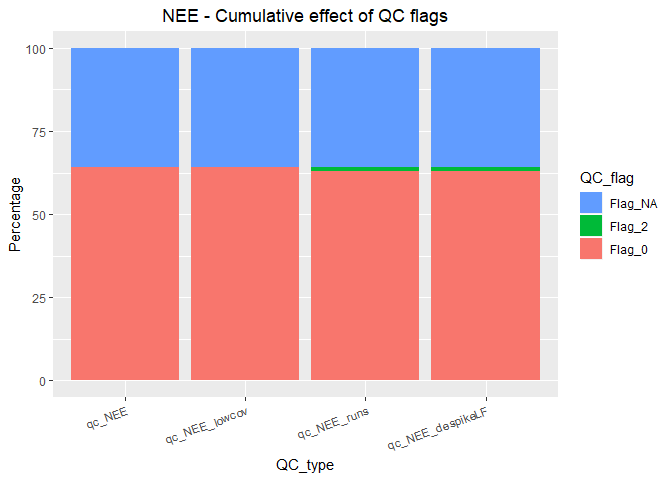
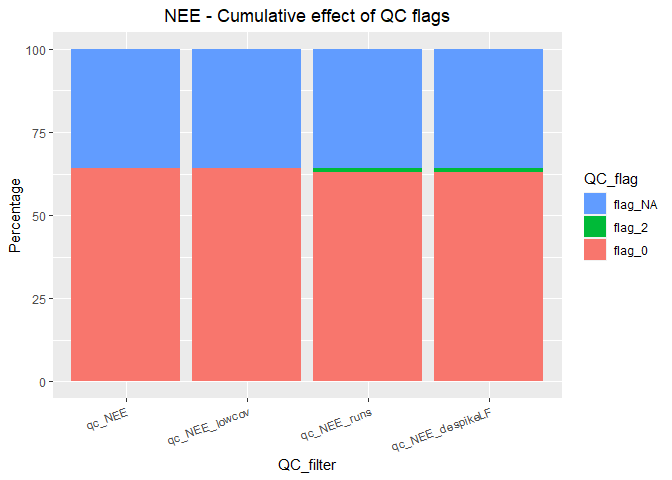
Reknit readme

diff --git a/README.md b/README.md
@@ -1,33 +1,41 @@
 <!-- README.md is generated from README.Rmd. Please edit that file -->
-openeddy
-========
 
-This package provides utilities for eddy covariance data handling, quality checking (similar to Mauder et al., 2013), processing, summarising and plotting. It aims to standardise the automated quality checking and make data processing reproducible.
+# openeddy
 
-Installation
-------------
+## Overview
+
+The `openeddy` package is a software infrastructure for eddy covariance
+data post-processing. It provides tools for handling data with attached
+metadata, setting up quality control scheme and summarizing and plotting
+the results. It is aligned with
+[REddyProc](https://github.com/bgctw/REddyProc) package that provides
+methods for uStar-filtering, gap-filling, and flux-partitioning. Thus
+the combined use of `openeddy` and `REddyProc` allows to run the whole
+eddy covariance post-processing chain. Learn more at
+<https://github.com/lsigut/EC_workflow>.
+
+## Installation
 
 1.  Install devtools package if not available yet.
 
-    ``` r
-    install.packages("devtools")
-    ```
+``` r
+install.packages("devtools")
+```
 
-2.  Install openeddy
+1.  Install openeddy
 
-    ``` r
-    devtools::install_github("lsigut/openeddy")
-    ```
+``` r
+devtools::install_github("lsigut/openeddy")
+```
 
-Extended Example
-----------------
+## Extended Example
 
-An extended example describing the intended eddy covariance data processing workflow is available at:
+An extended example of applied `openeddy` software infrustructure is
+available at:
 
 <https://github.com/lsigut/EC_workflow>
 
-Short Example
--------------
+## Short Example
 
 Demonstration of selected generally applicable `openeddy` functions.
 
@@ -42,7 +50,9 @@ library(REddyProc)
 library(ggplot2)
 ```
 
-Example data from `REddyProc` package do not include statistics extracted from raw data or quality control (QC) flags. Notice that units are included.
+Example data from `REddyProc` package do not include statistics
+extracted from raw data or quality control (QC) flags. Notice that units
+are included.
 
 ``` r
 data(Example_DETha98)
@@ -65,7 +75,11 @@ DETha98 <- fConvertTimeToPosix(Example_DETha98, 'YDH',
 #> Converted time format 'YDH' to POSIX with column name 'DateTime'.
 ```
 
-Certain variable names are expected by `openeddy`, thus DETha98 variable names need to be renamed. Net ecosystem exchange (NEE) is already filtered based on QC information (qc\_NEE) that is not included. Though flag 2 values can be recreated, respective NEE values are missing and flag 1 cannot be resolved.
+Certain variable names are expected by `openeddy`, thus DETha98 variable
+names need to be renamed. Net ecosystem exchange (NEE) is already
+filtered based on QC information (qc_NEE) that is not included. Though
+flag 2 values can be recreated, respective NEE values are missing and
+flag 1 cannot be resolved.
 
 ``` r
 rename <- names(DETha98) %in% c("DateTime", "Rg")
@@ -75,9 +89,17 @@ DETha98$qc_NEE <- ifelse(is.na(DETha98$NEE), NA, 0)
 
 Application of three general filters is presented.
 
-1.  Low covariance between vertical wind component and CO<sub>2</sub> concentration ((CO<sub>2</sub>)) can be caused by frozen ultrasonic anemometer or problems with (CO<sub>2</sub>) measurements. Such cases are flagged and saved to qc\_NEE\_lowcov.
-2.  Runs with repeating values are a sign of malfunctioning equipment (qc\_NEE\_runs).
-3.  Spikes in low frequency data cause problems during gap-filling and should be excluded. Since DETha98 was already quality checked, the amount of detected spikes is limited. In order to correctly evaluate spikes, preliminary QC (qc\_NEE\_prelim) that combines available QC tests or filters should be produced and used in `despikeLF`.
+1.  Low covariance between vertical wind component and CO<sub>2</sub>
+    concentration ((CO<sub>2</sub>)) can be caused by frozen ultrasonic
+    anemometer or problems with (CO<sub>2</sub>) measurements. Such
+    cases are flagged and saved to qc_NEE_lowcov.
+2.  Runs with repeating values are a sign of malfunctioning equipment
+    (qc_NEE_runs).
+3.  Spikes in low frequency data cause problems during gap-filling and
+    should be excluded. Since DETha98 was already quality checked, the
+    amount of detected spikes is limited. In order to correctly evaluate
+    spikes, preliminary QC (qc_NEE_prelim) that combines available QC
+    tests or filters should be produced and used in `despikeLF`.
 
 ``` r
 DETha98$qc_NEE_lowcov <- 
@@ -108,26 +130,34 @@ table(DETha98$qc_NEE_despikeLF)
 #> 11024    26
 ```
 
-The QC results can be summarized in tabular or graphical form using `summary_QC`. It is possible to summarize each filter independently or summarize the cummulative effect of applied filters. Note that the fraction of flagged records in this example is negligible as DETha98 dataset was already quality checked.
+The QC results can be summarized in tabular or graphical form using
+`summary_QC`. It is possible to summarize each filter independently or
+summarize the cummulative effect of applied filters. Note that the
+fraction of flagged records in this example is negligible as DETha98
+dataset was already quality checked.
 
 ``` r
 summary_QC(DETha98, 
            c("qc_NEE", "qc_NEE_lowcov", "qc_NEE_runs", "qc_NEE_despikeLF"),
            na.as = c(NA, NA, NA, 0))
 #>                   QC_flag
-#> QC_type               0    2 <NA>
-#>   qc_NEE           64.3  0.0 35.7
-#>   qc_NEE_lowcov    64.2  0.1 35.7
-#>   qc_NEE_runs      63.2  1.1 35.7
-#>   qc_NEE_despikeLF 99.9  0.1  0.0
+#> QC_filter          flag_0 flag_2 flag_NA
+#>   qc_NEE             64.3    0.0    35.7
+#>   qc_NEE_lowcov      64.2    0.1    35.7
+#>   qc_NEE_runs        63.2    1.1    35.7
+#>   qc_NEE_despikeLF   99.9    0.1     0.0
 summary_QC(DETha98, 
            c("qc_NEE", "qc_NEE_lowcov", "qc_NEE_runs", "qc_NEE_despikeLF"),
            na.as = c(NA, NA, NA, 0), cumul = TRUE, plot = TRUE, flux = "NEE")
+#> no columns with additive effect detected
 ```
 
 ![](README-unnamed-chunk-6-1.png)
 
-Although individual QC columns should be stored as they are useful to distinguish the reason why certain records were excluded, only the combined QC column (qc\_NEE\_composite) is usually used in further data processing and analysis.
+Although individual QC columns should be stored as they are useful to
+distinguish the reason why certain records were excluded, only the
+combined QC column (qc_NEE_composite) is usually used in further data
+processing and analysis.
 
 ``` r
 DETha98$qc_NEE_composite <- 
@@ -136,19 +166,20 @@ DETha98$qc_NEE_composite <-
            "qc_NEE_composite", additive = FALSE, na.as = c(NA, NA, NA, 0))
 ```
 
-Function `plot_eddy` is useful for visualization of the whole dataset including flux values, its respective QC flags and the most important micrometeorological parameters in monthly and weekly time resolution. Only a two week subset is presented here to limit the extent of output.
+Function `plot_eddy` is useful for visualization of the whole dataset
+including flux values, its respective QC flags and the most important
+micrometeorological parameters in monthly and weekly time resolution.
+Only a two week subset is presented here to limit the extent of output.
 
 ``` r
 DETha98[, c("P", "PAR", "Rn")] <- NA
 (varnames <- varnames(DETha98))
-#>  [1] "DateTime"         "Year"             "DoY"             
-#>  [4] "Hour"             "NEE"              "LE"              
-#>  [7] "H"                "Rg"               "Tair"            
-#> [10] "Tsoil"            "rH"               "VPD"             
-#> [13] "Ustar"            "-"                "qc_NEE_lowcov"   
-#> [16] "qc_NEE_runs"      "qc_NEE_prelim"    "qc_NEE_despikeLF"
-#> [19] "qc_NEE_composite" "-"                "-"               
-#> [22] "-"
+#>  [1] "DateTime"         "Year"             "DoY"              "Hour"            
+#>  [5] "NEE"              "LE"               "H"                "Rg"              
+#>  [9] "Tair"             "Tsoil"            "rH"               "VPD"             
+#> [13] "Ustar"            "-"                "qc_NEE_lowcov"    "qc_NEE_runs"     
+#> [17] "qc_NEE_prelim"    "qc_NEE_despikeLF" "qc_NEE_composite" "-"               
+#> [21] "-"                "-"
 (units <- openeddy::units(DETha98))
 #>  [1] "POSIXDate Time" "-"              "-"              "-"             
 #>  [5] "umolm-2s-1"     "Wm-2"           "Wm-2"           "Wm-2"          
@@ -165,7 +196,10 @@ plot_eddy(DETha98_sub, "NEE", "qc_NEE", "qc_NEE_composite", skip = "monthly",
 
 ![](README-unnamed-chunk-8-1.png)
 
-In addition to actual despiking, `despikeLF` can be used also for visualization of the internally computed double-differenced time series in order to inspect selected 13 days blocks. See section Plotting in `despikeLF` help file for further description.
+In addition to actual despiking, `despikeLF` can be used also for
+visualization of the internally computed double-differenced time series
+in order to inspect selected 13 days blocks. See section Plotting in
+`despikeLF` help file for further description.
 
 ``` r
 despikeLF_plots <- 
@@ -180,9 +214,13 @@ despikeLF_plots$`iter 1`$all$`1998-01-27 - 1998-02-08`
 
 ![](README-unnamed-chunk-9-1.png)
 
-References
-----------
+## References
 
-Publication describing openeddy is not yet available. When describing the proposed quality control scheme, please refer to it as similar to:
+Publication describing `openeddy` is not yet available. When describing
+the proposed quality control scheme, please refer to it as similar to:
 
-Mauder, M., Cuntz, M., Drüe, C., Graf, A., Rebmann, C., Schmid, H.P., Schmidt, M., Steinbrecher, R., 2013. A strategy for quality and uncertainty assessment of long-term eddy-covariance measurements. Agric. For. Meteorol. 169, 122-135, <https://doi.org/10.1016/j.agrformet.2012.09.006>
+Mauder, M., Cuntz, M., Drüe, C., Graf, A., Rebmann, C., Schmid, H.P.,
+Schmidt, M., Steinbrecher, R., 2013. A strategy for quality and
+uncertainty assessment of long-term eddy-covariance measurements. Agric.
+For. Meteorol. 169, 122-135,
+<https://doi.org/10.1016/j.agrformet.2012.09.006>
